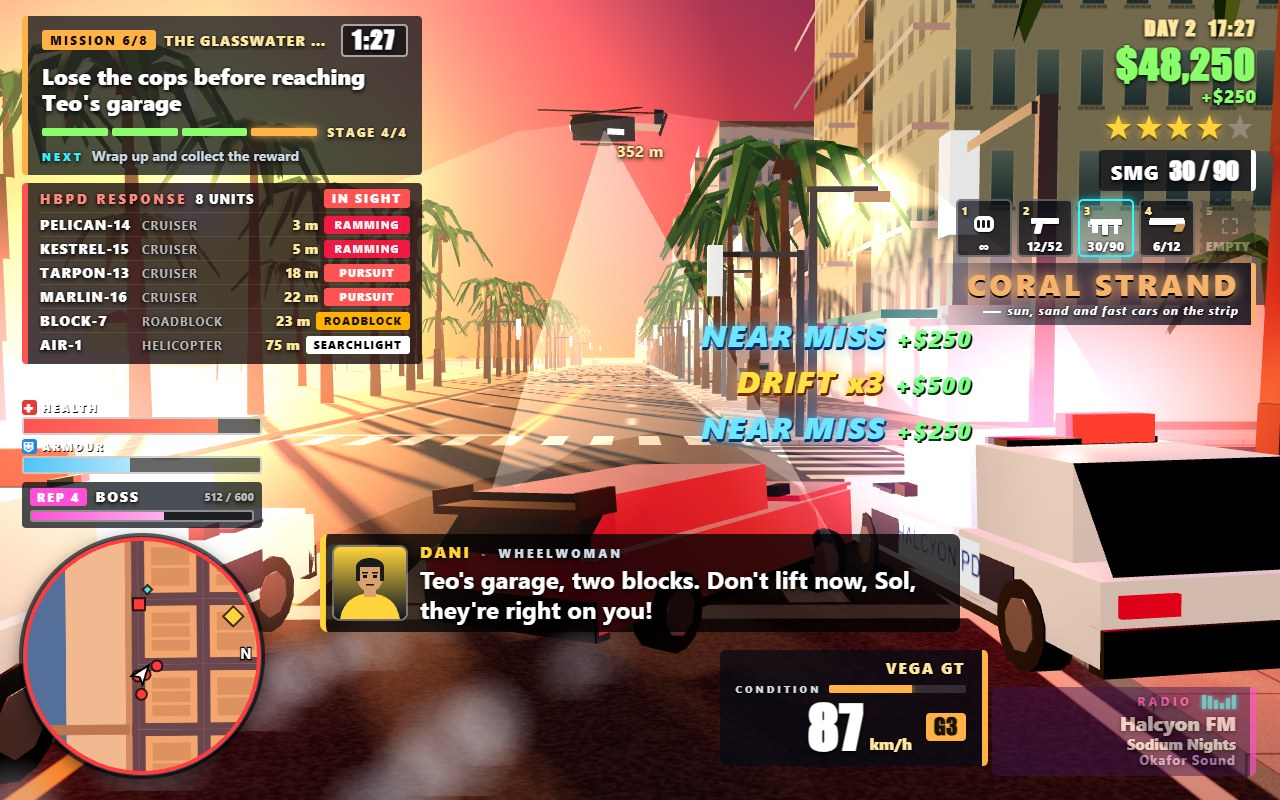
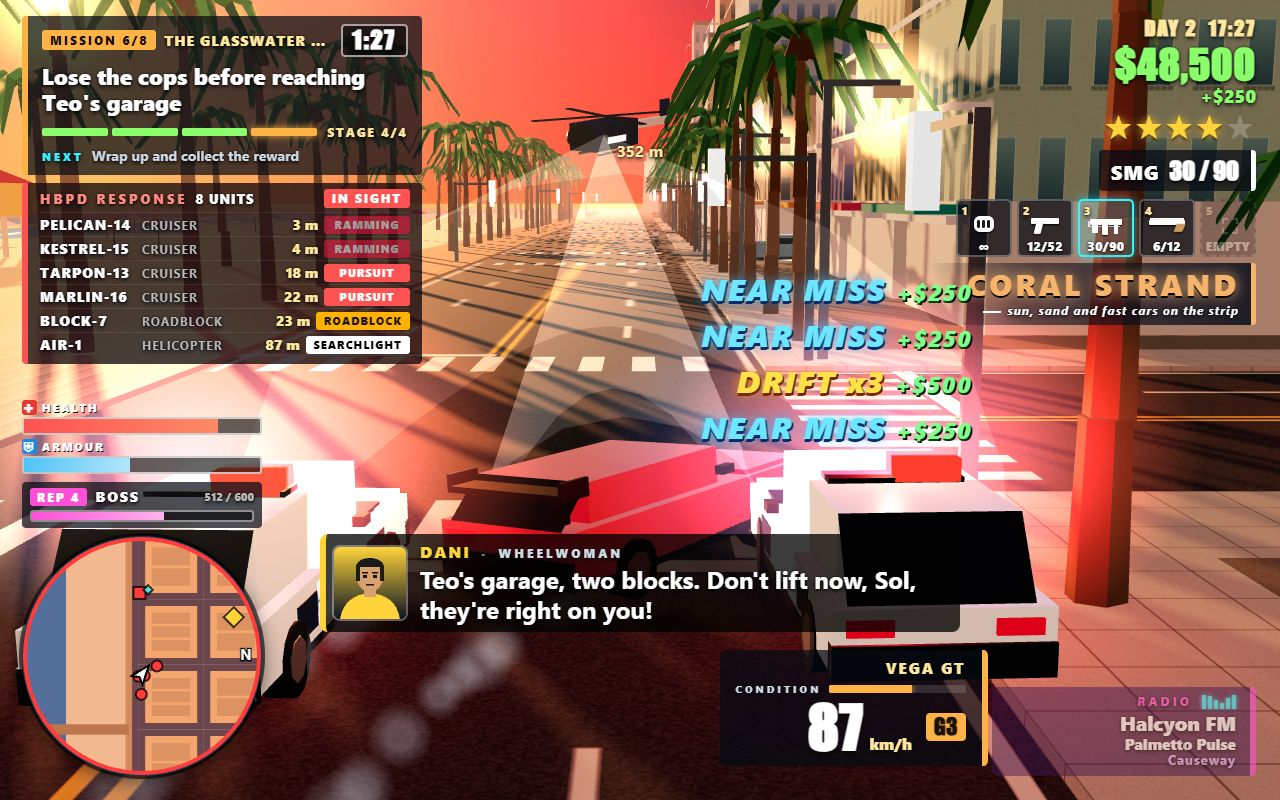
Cover: pull the chase cam back and up, cruisers flank inside the frame, softer sun glare

diff --git a/game/src/shots.js b/game/src/shots.js
@@ -107,18 +107,18 @@ export async function stageShot(name, G) {
     // Two cruisers right on its tail, one in each lane, angled in toward it, lightbars on; a third
     // further back in pursuit and a roadblock forming ahead, so the HBPD panel lists five units.
     const cruisers = [];
-    for (const [dx, dz, turn] of [[0.5, -4.2, 0.12], [2.2, 4.0, -0.1], [22, 0.2, 0.03]]) {
+    for (const [dx, dz, turn] of [[2.0, -3.1, 0.06], [2.6, 3.1, -0.06], [22, 0.2, 0.03]]) {
       const c = G.police.spawnCruiser({ x: v.x + dx, z: v.z + dz, yaw: -Math.PI / 2 + turn });
       c.vx = -19;
       c.siren = true;
       c.ai.setChase(playerTarget(G), 30);
       cruisers.push(c);
     }
-    // Low chase cam right behind the coupe (1.7 m up, 6.8 m back) looking west down the drive to
-    // the sunset vanishing point; cruisers flank it at the frame edges, the helicopter hangs in
-    // the sky ahead with its searchlight on the coupe.
+    // Chase cam 10.5 m behind and 3.2 m above the coupe, tilted slightly down the drive so the
+    // whole coupe sits centre-frame above the dialogue box; the cruisers flank it behind-left and
+    // behind-right, the helicopter hangs low in the sunset ahead with its searchlight on the coupe.
     // (?cam=dx,dy,dz,lx,ly,lz,fov,hx,hz,hy and ?shift=metres override these for composition reviews.)
-    const cam = [9.5, 2.4, 0.4, -40, 0.2, 0, 44, -78, 0.5, 21];
+    const cam = [15, 4.2, 0, -30, -2.7, 0, 34, -90, 0.5, 8];
     const camParam = new URLSearchParams(window.location.search).get('cam');
     if (camParam) camParam.split(',').forEach((n, i) => { if (Number.isFinite(Number.parseFloat(n))) cam[i] = Number.parseFloat(n); });
     G.police.summonHeli(v.x + cam[7], v.z + cam[8]);
@@ -151,13 +151,13 @@ export async function stageShot(name, G) {
     su.uHorizon.value.set('#ff7a5c');
     su.uBottom.value.set('#ffb27a');
     su.uSunColor.value.set('#ffb060');
-    su.uGlow.value = 1.8;
+    su.uGlow.value = 1.2;
     G.world.scene.traverse((o) => {
       if (o.isHemisphereLight) { o.color.set('#ffc6b0'); o.groundColor.set('#e09a6a'); }
     });
     // Cheap bloom: additive halos on the sun and on the street lamps near the chase.
     const halo = (color, opacity) => new THREE.SpriteMaterial({ map: glowTexture(), color, transparent: true, opacity, blending: THREE.AdditiveBlending, depthWrite: false, fog: false });
-    const sunGlow = new THREE.Sprite(halo('#ff9a60', 0.45));
+    const sunGlow = new THREE.Sprite(halo('#ff9a60', 0.3));
     sunGlow.material.depthTest = false;
     sunGlow.renderOrder = -8;
     sunGlow.position.copy(G.world.sky.state.sunDir).multiplyScalar(420).add(new THREE.Vector3(camPos.x, camPos.y, camPos.z));
